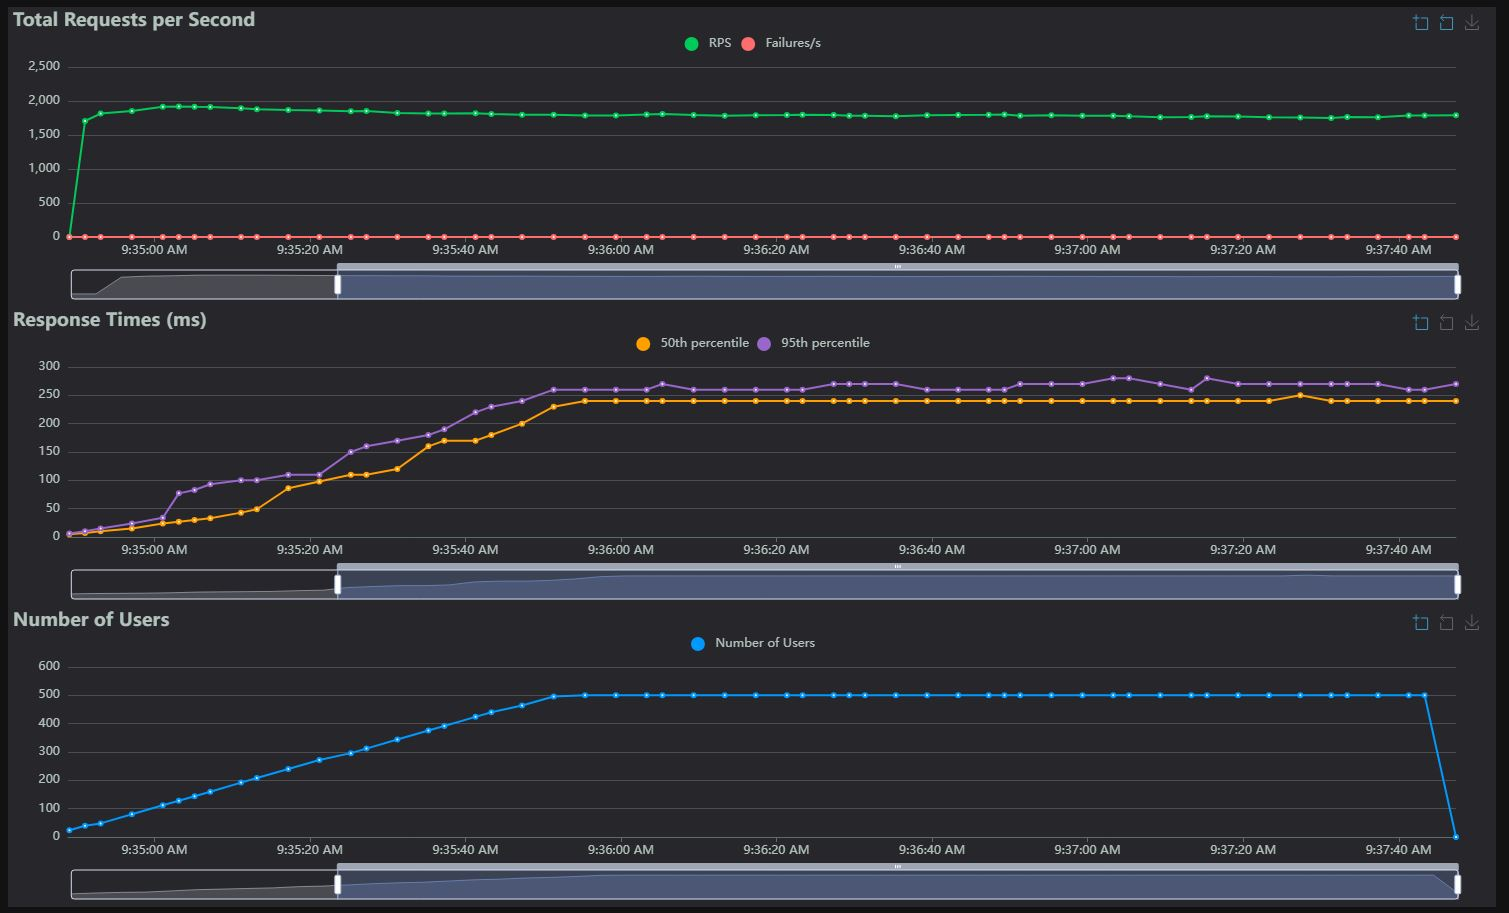
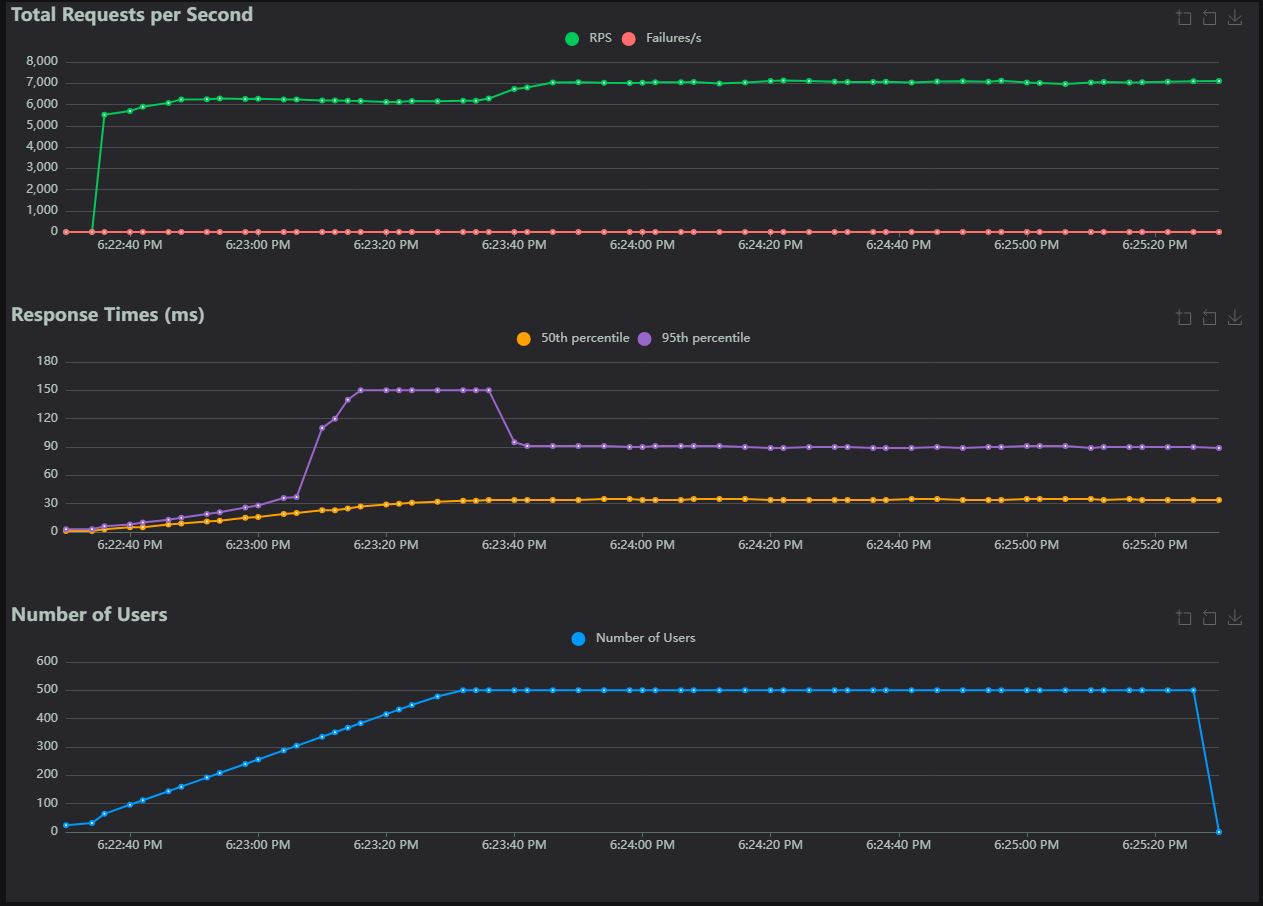
updates and add fast api

diff --git a/flask-api/app.py b/flask-api/app.py
@@ -1,4 +1,7 @@
 from flask import Flask, request, jsonify
+from waitress import serve
+
+# Start with 4 workers using: waitress-serve --listen=*:5000 --threads=4 app:app
 
 app = Flask(__name__)
 
@@ -9,4 +12,5 @@ def status():
 
 # Run the app
 if __name__ == '__main__':
-    app.run(debug=True)
+    serve(app, listen='*:5000', threads=4)
+    

diff --git a/fast-api/app.py b/fast-api/app.py
@@ -1,0 +1,13 @@
+from fastapi import FastAPI
+import uvicorn
+
+# start with: uvicorn app:app --host 0.0.0.0 --port 8000 --workers 4
+
+app = FastAPI()
+
+@app.get("/status")
+async def root():
+  return {"message": "Fast API Okay"}, 200
+
+if __name__ == "__main__":
+  uvicorn.run(app, host="0.0.0.0", port=8000)

diff --git a/ReadMe.md b/ReadMe.md
@@ -1,51 +1,43 @@
 # Project
 
-Launch `start.bat`. Start your test API, then start the locust test from the web UI.
-
-***Note: start.bat assumes you are using a virtual environment. Adjust as needed.***
+For Windows: Launch `install.bat` to set up the virtual environment and install requirements. Then start your test API and start the locust test using `start.bat`.
 
 # Test parameters
 
 See config file [locust.conf](locust-tester\locust.conf)
 
 1. All applications running locally within a Windows environment
-1. Locust will run in a single process
+1. Locust will run with a set number of workers
 1. Only one test api will be running at a time, in addition to locust
+1. Each API should use a default web server worker count
 1. End points are a single get method with returns a 200 status and a small json payload
 
 # Possible issues
 
-Locust can be distributed to additional processes to avoid issues with the python GIL. However, it does this using fork(), so it isn't supported on Windows. With that being said, both Java and Python tests will have the same test parameters, so I think this factor will not make a difference on the results.
+Locust can be distributed to additional processes or machines to avoid issues with the python GIL. If you use the `locust.conf` file to run Locust, it will create workers manually for you.
 
-# Results
+Results will be impacted by the web server implementation used to run each application (denoted in parenthesis). It is recommended to run each server with the default number of workers.
 
-Results were collected from VS Code 1.101 on a Windows 10 machine (Intel i9-10900KF at 3.7GHz, 32GB RAM)
+# Sample Results
+
+Results were collected from Windows 10 with Intel i9-10900KF at 3.7GHz, 32GB RAM
 
 Overall stats:
 
 |API|# Requests|# Fails|Median (ms)|95%ile (ms)|99%ile (ms)|Average (ms)|Min (ms)|Max (ms)|Average size (bytes)|Current RPS|Current Failures/s|
 |-|-|-|-|-|-|-|-|-|-|-|-|
-|Java|325350|0|240|270|340|199.44|1|1087|21|1790.4|0|
-|Python|94886|60989|890|1300|2100|769.2|2|2453|10.36|497.2|496.3|
+|Java(Tomcat)|1212238|0|32|90|160|38.98|1|358|21|7103|0|
+|Fast API(Uvicorn - ASGI)|952670|0|40|120|150|52.08|1|3236|33|5607.1|0
+|Flask (Waitress - WSGI)|639903|112|24|47|55|26.69|1|4113|24|3693.4|1.2|
 
-## Flask API
+## Java (Tomcat)
 
-#### Stats
-![](resultimages/pythonstats.JPG)
-
-#### Chart
-![](resultimages/pythonchart.JPG)
-
-#### Errors
-![](resultimages/pythonfailures.JPG)
-
-## Java API
-
-#### Stats
-![](resultimages/javastats.JPG)
-
-#### Chart
 ![](resultimages/javachart.JPG)
 
-#### Errors
-![](resultimages/javafailures.JPG)
+## Fast API (Uvicorn - ASGI)
+
+![](resultimages/fastapichart.JPG)
+
+## Flask (Waitress - WSGI)
+
+![](resultimages/flaskchart.JPG)
